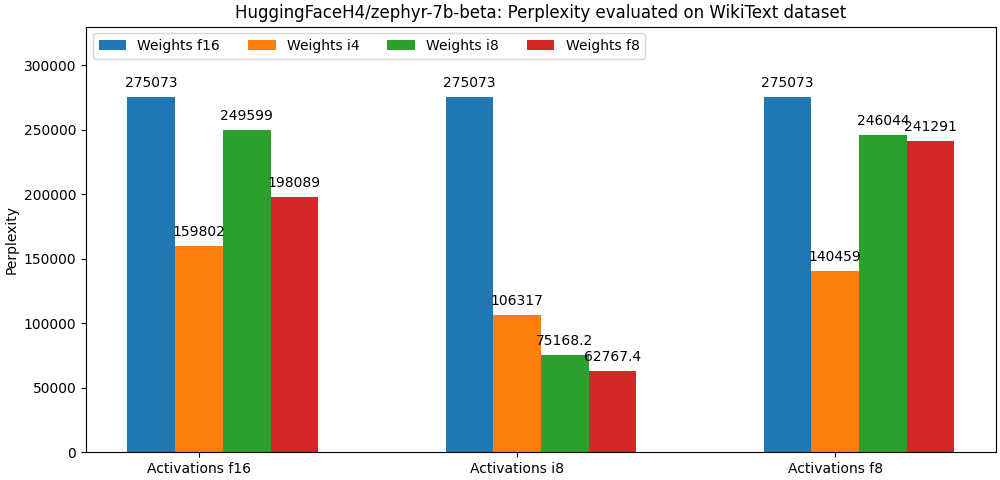
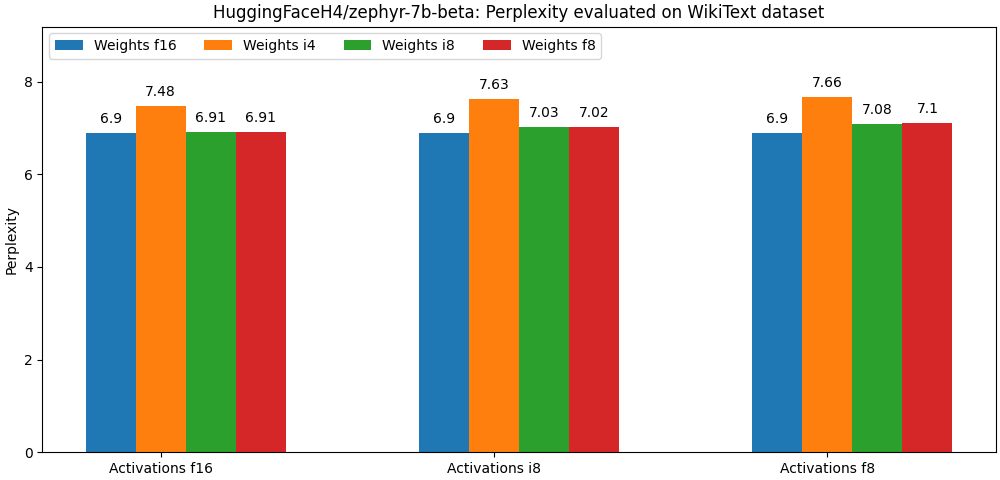
chore(bench): update perplexity results

diff --git a/bench/generation/README.md b/bench/generation/README.md
@@ -74,7 +74,7 @@ The paragraphs below display results for some popular models.
  </center>
 </div>
 
-## princeton-nlp-Sheared-LLaMA-1.3B
+## princeton-nlp/Sheared-LLaMA-1.3B
 
 <div class="row"><center>
   <div class="column">
@@ -106,11 +106,34 @@ The paragraphs below display results for some popular models.
  </center>
 </div>
 
+## mistralai/Mistral-7B-v0.1
+
+<div class="row"><center>
+  <div class="column">
+    <img src="https://github.com/huggingface/quanto/blob/main/bench/generation/charts/mistralai-Mistral-7B-v0.1_Accuracy.png" alt="mistralai/Mistral-7B-v0.1 Lambada prediction accuracy">
+  </div>
+ </center>
+</div>
+
+<div class="row"><center>
+  <div class="column">
+    <img src="https://github.com/huggingface/quanto/blob/main/bench/generation/charts/mistralai-Mistral-7B-v0.1_Perplexity.png" alt="mistralai/Mistral-7B-v0.1 Lambada prediction accuracy">
+  </div>
+ </center>
+</div>
+
 ## HuggingFaceH4/zephyr-7b-beta
 
 <div class="row"><center>
   <div class="column">
     <img src="https://github.com/huggingface/quanto/blob/main/bench/generation/charts/HuggingFaceH4-zephyr-7b-beta_Accuracy.png" alt="HuggingFaceH4/zephyr-7b-beta Lambada prediction accuracy">
+  </div>
+ </center>
+</div>
+
+<div class="row"><center>
+  <div class="column">
+    <img src="https://github.com/huggingface/quanto/blob/main/bench/generation/charts/HuggingFaceH4-zephyr-7b-beta_Perplexity.png" alt="HuggingFaceH4/zephyr-7b-beta Lambada prediction accuracy">
   </div>
  </center>
 </div>
